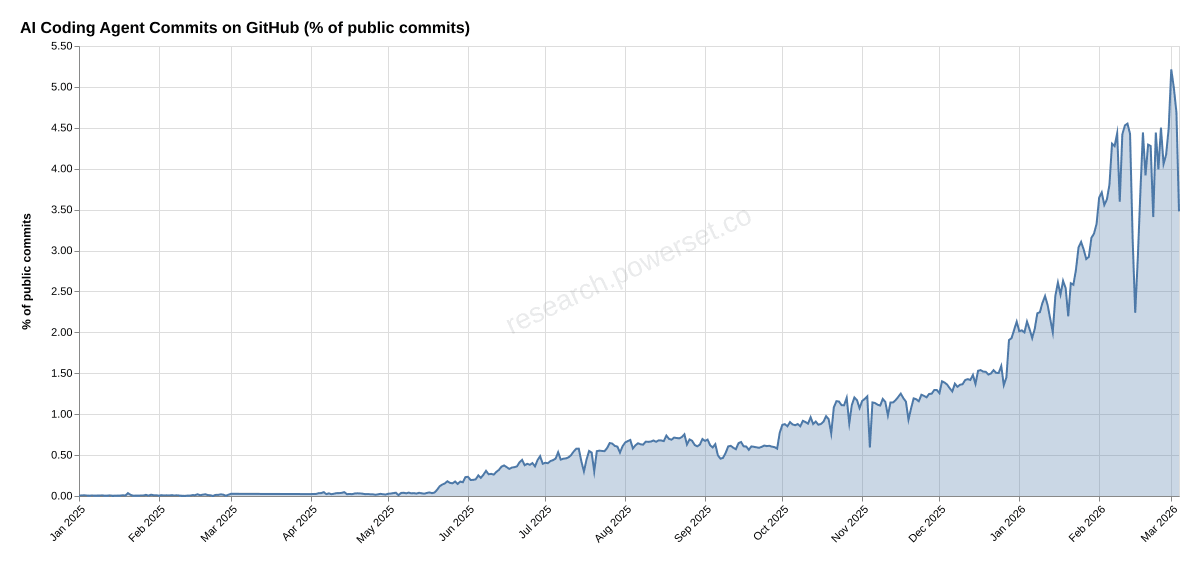
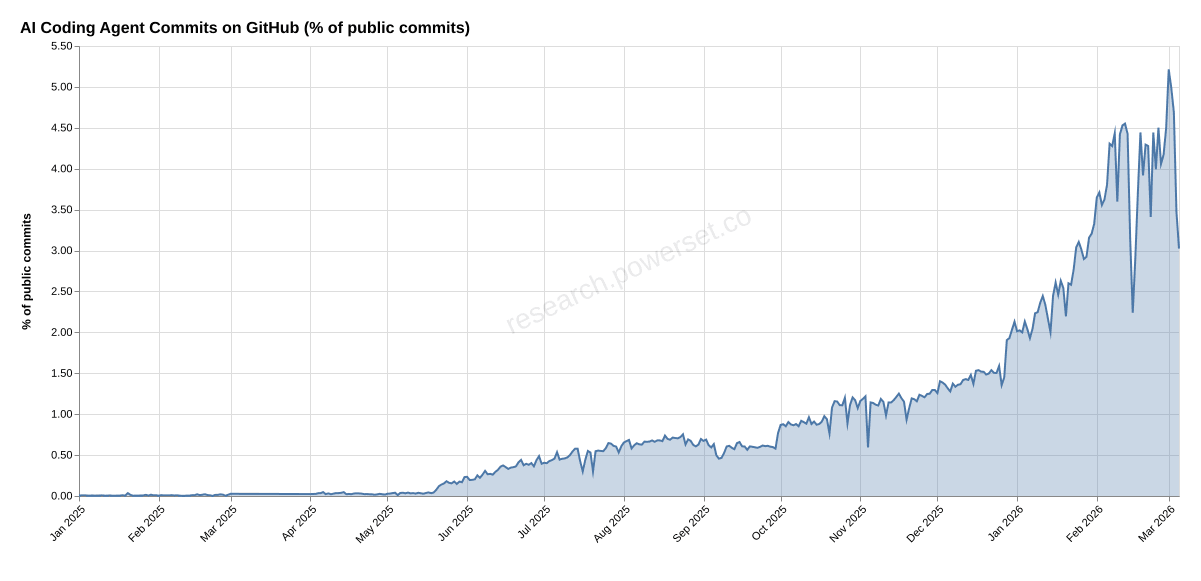
data update

diff --git a/README.md b/README.md
@@ -11,9 +11,9 @@ The following chart and table are updated automatically by a GitHub Action runni
 
 | Agent          |                      | %     |
 | -------------- | -------------------- | ----- |
-| Claude Code    | ████████████████████ | 3.87% |
-| GitHub Copilot | ██                   | 0.30% |
-| Cursor         | █                    | 0.15% |
+| Claude Code    | ████████████████████ | 3.79% |
+| GitHub Copilot | ██                   | 0.29% |
+| Cursor         | █                    | 0.10% |
 
 <!-- recent-table-end -->
 
